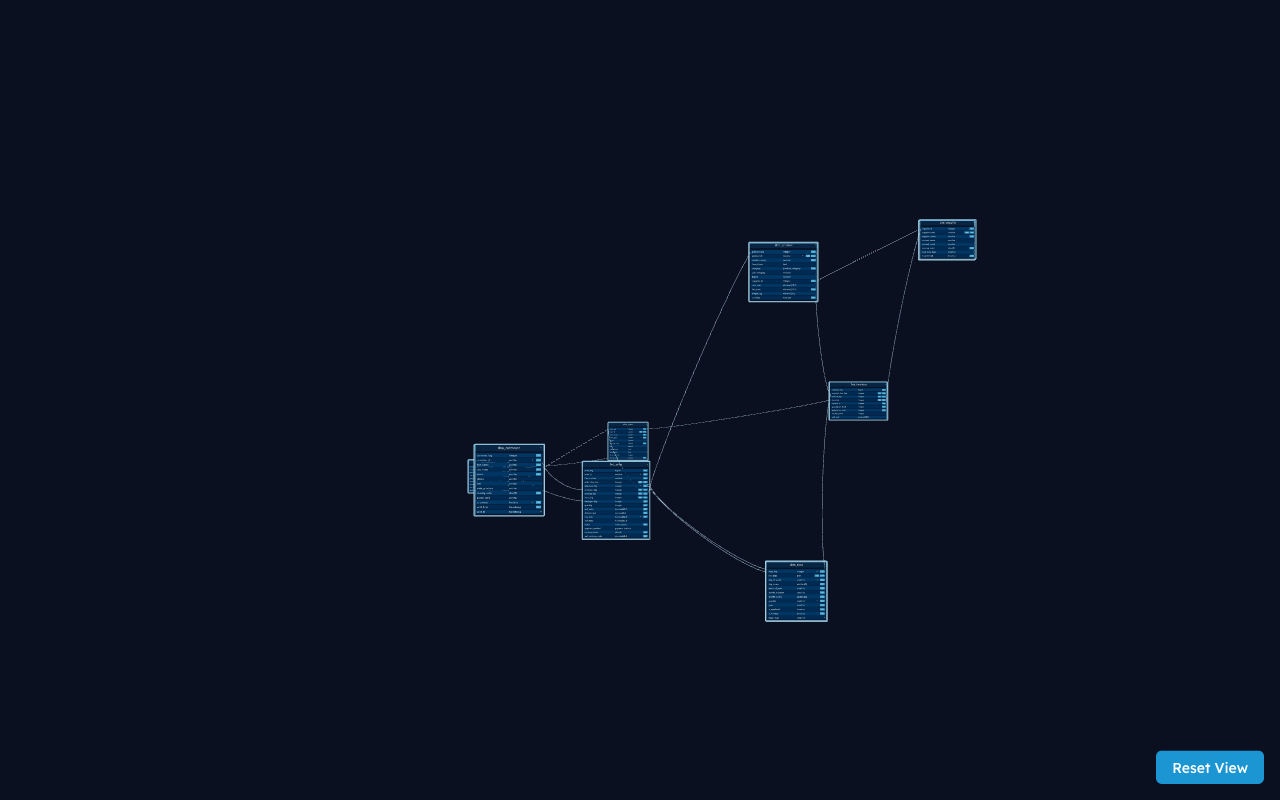
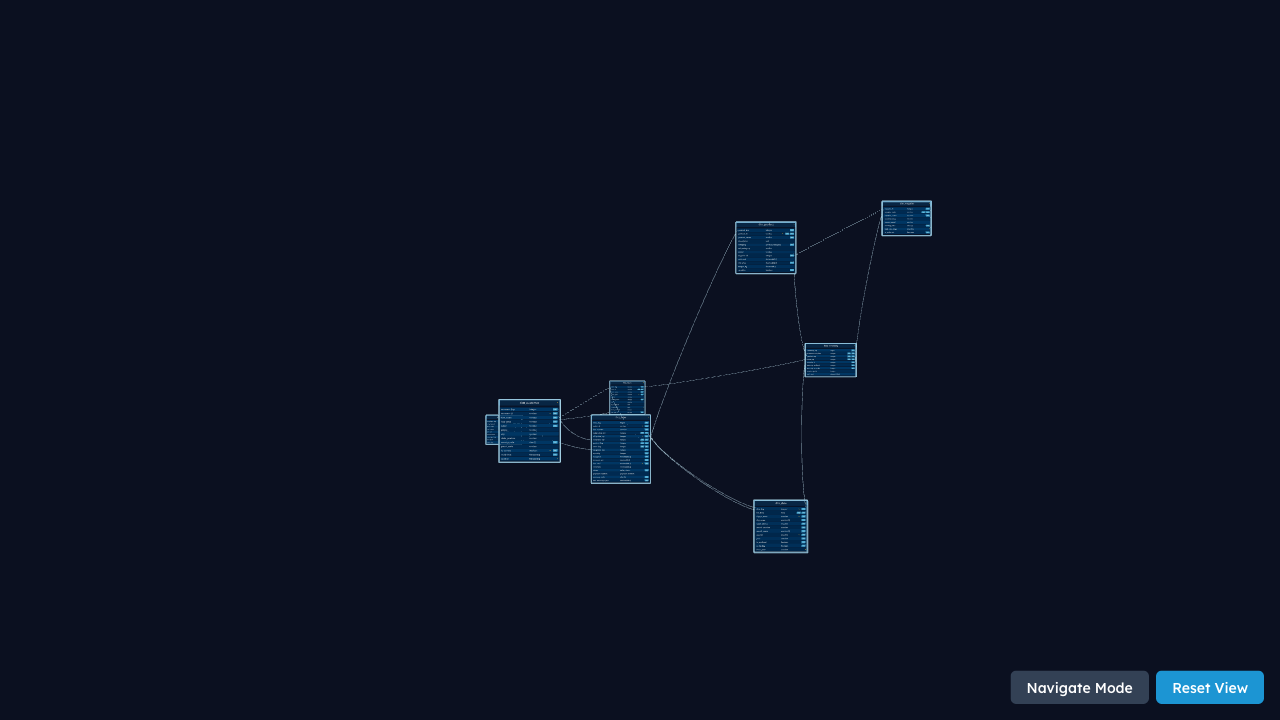
feat(renderer): add navigate and re-arrange interaction modes

diff --git a/src/renderer/TableCard.tsx b/src/renderer/TableCard.tsx
@@ -38,6 +38,8 @@ interface DragHandlers {
   onPointerDown: (e: ThreeEvent<PointerEvent>) => void;
   onPointerMove: (e: ThreeEvent<PointerEvent>) => void;
   onPointerUp: (e: ThreeEvent<PointerEvent>) => void;
+  onPointerEnter: () => void;
+  onPointerLeave: () => void;
   onDoubleClick: (e: ThreeEvent<MouseEvent>) => void;
 }
 
@@ -46,7 +48,6 @@ interface TableCardProps {
   highlightedColumn?: string | '__table__';
   onNoteClick?: (note: ActiveNote) => void;
   dragHandlers?: DragHandlers;
-  isPinned?: boolean;
 }
 
 interface FieldBadge {
@@ -69,19 +70,42 @@ function getBadges(column: ParsedColumn): FieldBadge[] {
   ];
 }
 
+function IconHoverBorder({ width, height }: { width: number; height: number }): ReactElement {
+  const thickness = 0.012;
+  return (
+    <group position={[0, 0, 0.002]}>
+      <mesh position={[0, height / 2, 0]}>
+        <boxGeometry args={[width, thickness, 0.006]} />
+        <meshBasicMaterial color={NOTE_HIGHLIGHT_COLOR} transparent opacity={0.95} />
+      </mesh>
+      <mesh position={[0, -height / 2, 0]}>
+        <boxGeometry args={[width, thickness, 0.006]} />
+        <meshBasicMaterial color={NOTE_HIGHLIGHT_COLOR} transparent opacity={0.95} />
+      </mesh>
+      <mesh position={[width / 2, 0, 0]}>
+        <boxGeometry args={[thickness, height, 0.006]} />
+        <meshBasicMaterial color={NOTE_HIGHLIGHT_COLOR} transparent opacity={0.95} />
+      </mesh>
+      <mesh position={[-width / 2, 0, 0]}>
+        <boxGeometry args={[thickness, height, 0.006]} />
+        <meshBasicMaterial color={NOTE_HIGHLIGHT_COLOR} transparent opacity={0.95} />
+      </mesh>
+    </group>
+  );
+}
+
 export default function TableCard({
   node,
   highlightedColumn,
   onNoteClick,
   dragHandlers,
-  isPinned = false,
 }: TableCardProps): ReactElement {
   const groupRef = useRef<THREE.Group>(null);
   const headerMaterialRef = useRef<THREE.MeshBasicMaterial>(null);
   const bodyMaterialRef = useRef<THREE.MeshBasicMaterial>(null);
   const worldPositionRef = useRef<THREE.Vector3>(new THREE.Vector3());
   const { camera } = useThree();
-  const [showPinTooltip, setShowPinTooltip] = useState(false);
+  const [hoveredNoteKey, setHoveredNoteKey] = useState<string | null>(null);
 
   const dimensions = useMemo(() => estimateTableCardDimensions(node.table), [node.table]);
 
@@ -154,7 +178,11 @@ export default function TableCard({
   });
 
   return (
-    <group ref={groupRef} position={[node.x, node.y, node.z]}>
+    <group
+      ref={groupRef}
+      position={[node.x, node.y, node.z]}
+      onDoubleClick={dragHandlers?.onDoubleClick}
+    >
       <mesh position={[0, bodyY, 0]}>
         <boxGeometry args={[dimensions.width, bodyHeight, dimensions.depth]} />
         <meshBasicMaterial
@@ -186,40 +214,12 @@ export default function TableCard({
           onPointerDown={dragHandlers.onPointerDown}
           onPointerMove={dragHandlers.onPointerMove}
           onPointerUp={dragHandlers.onPointerUp}
-          onDoubleClick={dragHandlers.onDoubleClick}
+          onPointerEnter={dragHandlers.onPointerEnter}
+          onPointerLeave={dragHandlers.onPointerLeave}
         >
           <boxGeometry args={[dimensions.width, dimensions.height, 0.01]} />
           <meshBasicMaterial transparent opacity={0} />
         </mesh>
-      )}
-
-      {/* Pin indicator */}
-      {isPinned && (
-        <group
-          position={[
-            dimensions.width / 2 - 0.1,
-            dimensions.height / 2 - CARD_HEADER_HEIGHT / 2,
-            dimensions.depth / 2 + 0.02,
-          ]}
-          onPointerEnter={() => setShowPinTooltip(true)}
-          onPointerLeave={() => setShowPinTooltip(false)}
-        >
-          <mesh>
-            <sphereGeometry args={[0.06, 12, 8]} />
-            <meshBasicMaterial color="white" transparent opacity={0.8} />
-          </mesh>
-          {showPinTooltip && (
-            <Text
-              color="white"
-              fontSize={0.07}
-              position={[-0.35, 0, 0.01]}
-              anchorX="right"
-              anchorY="middle"
-            >
-              double-click to release
-            </Text>
-          )}
-        </group>
       )}
 
       <Text
@@ -241,10 +241,27 @@ export default function TableCard({
             dimensions.depth / 2 + 0.015,
           ]}
         >
-          <mesh onClick={handleTableNoteClick}>
+          <mesh
+            onClick={(e) => {
+              e.stopPropagation();
+              handleTableNoteClick();
+            }}
+            onPointerEnter={(e) => {
+              e.stopPropagation();
+              setHoveredNoteKey('__table__');
+            }}
+            onPointerLeave={(e) => {
+              e.stopPropagation();
+              setHoveredNoteKey((current) => (current === '__table__' ? null : current));
+            }}
+            onDoubleClick={(e) => e.stopPropagation()}
+          >
             <boxGeometry args={[0.18, CARD_HEADER_HEIGHT * 0.8, 0.01]} />
             <meshBasicMaterial transparent opacity={0} />
           </mesh>
+          {hoveredNoteKey === '__table__' && (
+            <IconHoverBorder width={0.22} height={CARD_HEADER_HEIGHT * 0.9} />
+          )}
           <Text
             color={NOTE_HIGHLIGHT_COLOR}
             fontSize={NOTE_ICON_SIZE}
@@ -344,10 +361,27 @@ export default function TableCard({
                   dimensions.depth / 2 + 0.015,
                 ]}
               >
-                <mesh onClick={makeColumnNoteClickHandler(column, rowY)}>
+                <mesh
+                  onClick={(e) => {
+                    e.stopPropagation();
+                    makeColumnNoteClickHandler(column, rowY)();
+                  }}
+                  onPointerEnter={(e) => {
+                    e.stopPropagation();
+                    setHoveredNoteKey(column.name);
+                  }}
+                  onPointerLeave={(e) => {
+                    e.stopPropagation();
+                    setHoveredNoteKey((current) => (current === column.name ? null : current));
+                  }}
+                  onDoubleClick={(e) => e.stopPropagation()}
+                >
                   <boxGeometry args={[0.16, CARD_ROW_HEIGHT * 0.8, 0.01]} />
                   <meshBasicMaterial transparent opacity={0} />
                 </mesh>
+                {hoveredNoteKey === column.name && (
+                  <IconHoverBorder width={0.2} height={CARD_ROW_HEIGHT * 0.9} />
+                )}
                 <Text
                   color={NOTE_HIGHLIGHT_COLOR}
                   fontSize={NOTE_ICON_SIZE}

diff --git a/src/renderer/Scene.tsx b/src/renderer/Scene.tsx
@@ -54,6 +54,7 @@ interface DraggableTableCardProps {
   node: TableCardNode;
   highlightedColumn?: string | '__table__';
   onNoteClick?: (note: ActiveNote) => void;
+  isRearrangeMode: boolean;
   onDragStart: (id: string, pos: THREE.Vector3) => void;
   onDragMove: (id: string, delta: THREE.Vector3) => void;
   onDragEnd: (id: string, pos: THREE.Vector3, isPinRelease: boolean) => void;
@@ -170,6 +171,7 @@ function DraggableTableCard({
   node,
   highlightedColumn,
   onNoteClick,
+  isRearrangeMode,
   onDragStart,
   onDragMove,
   onDragEnd,
@@ -195,8 +197,7 @@ function DraggableTableCard({
       node={node}
       highlightedColumn={highlightedColumn}
       onNoteClick={onNoteClick}
-      dragHandlers={dragHandlers}
-      isPinned={node.isPinned}
+      dragHandlers={isRearrangeMode ? dragHandlers : undefined}
     />
   );
 }
@@ -208,6 +209,7 @@ export default function Scene({ schema }: SceneProps): ReactElement {
   }, []);
 
   const [activeNote, setActiveNote] = useState<ActiveNote | null>(null);
+  const [isRearrangeMode, setIsRearrangeMode] = useState(false);
 
   const controlsRef = useRef<ComponentRef<typeof OrbitControls> | null>(null);
   const isDraggingRef = useRef(false);
@@ -388,7 +390,8 @@ export default function Scene({ schema }: SceneProps): ReactElement {
               key={node.id}
               node={node}
               highlightedColumn={highlightedColumn}
-              onNoteClick={setActiveNote}
+              onNoteClick={isRearrangeMode ? undefined : setActiveNote}
+              isRearrangeMode={isRearrangeMode}
               onDragStart={handleDragStart}
               onDragMove={handleDragMove}
               onDragEnd={handleDragEnd}
@@ -418,6 +421,35 @@ export default function Scene({ schema }: SceneProps): ReactElement {
           })()}
       </Canvas>
       <ResetViewButton onClick={handleResetView} />
+      <button
+        type="button"
+        onClick={() =>
+          setIsRearrangeMode((current) => {
+            const next = !current;
+            if (next) {
+              setActiveNote(null);
+            }
+            return next;
+          })
+        }
+        aria-label={isRearrangeMode ? 'Switch to Navigate mode' : 'Switch to Re-arrange mode'}
+        style={{
+          position: 'fixed',
+          bottom: '1rem',
+          right: '8.2rem',
+          backgroundColor: isRearrangeMode ? '#F59E0B' : '#334155',
+          color: '#ffffff',
+          fontFamily: "'Lexend', 'Helvetica Neue', Arial, sans-serif",
+          padding: '0.5rem 1rem',
+          borderRadius: '0.375rem',
+          border: 'none',
+          cursor: 'pointer',
+          fontSize: '0.875rem',
+          fontWeight: 500,
+        }}
+      >
+        {isRearrangeMode ? 'Re-arrange Mode' : 'Navigate Mode'}
+      </button>
     </div>
   );
 }

diff --git a/src/renderer/useDragCard.ts b/src/renderer/useDragCard.ts
@@ -20,6 +20,8 @@ export function useDragCard(params: {
   onPointerDown: (e: ThreeEvent<PointerEvent>) => void;
   onPointerMove: (e: ThreeEvent<PointerEvent>) => void;
   onPointerUp: (e: ThreeEvent<PointerEvent>) => void;
+  onPointerEnter: () => void;
+  onPointerLeave: () => void;
   onDoubleClick: (e: ThreeEvent<MouseEvent>) => void;
 } {
   const { nodeId } = params;
@@ -115,5 +117,22 @@ export function useDragCard(params: {
     [nodeId],
   );
 
-  return { onPointerDown, onPointerMove, onPointerUp, onDoubleClick };
+  const onPointerEnter = useCallback(() => {
+    if (isDraggingRef.current) return;
+    glRef.current.domElement.style.cursor = 'grab';
+  }, []);
+
+  const onPointerLeave = useCallback(() => {
+    if (isDraggingRef.current) return;
+    glRef.current.domElement.style.cursor = 'default';
+  }, []);
+
+  return {
+    onPointerDown,
+    onPointerMove,
+    onPointerUp,
+    onPointerEnter,
+    onPointerLeave,
+    onDoubleClick,
+  };
 }
